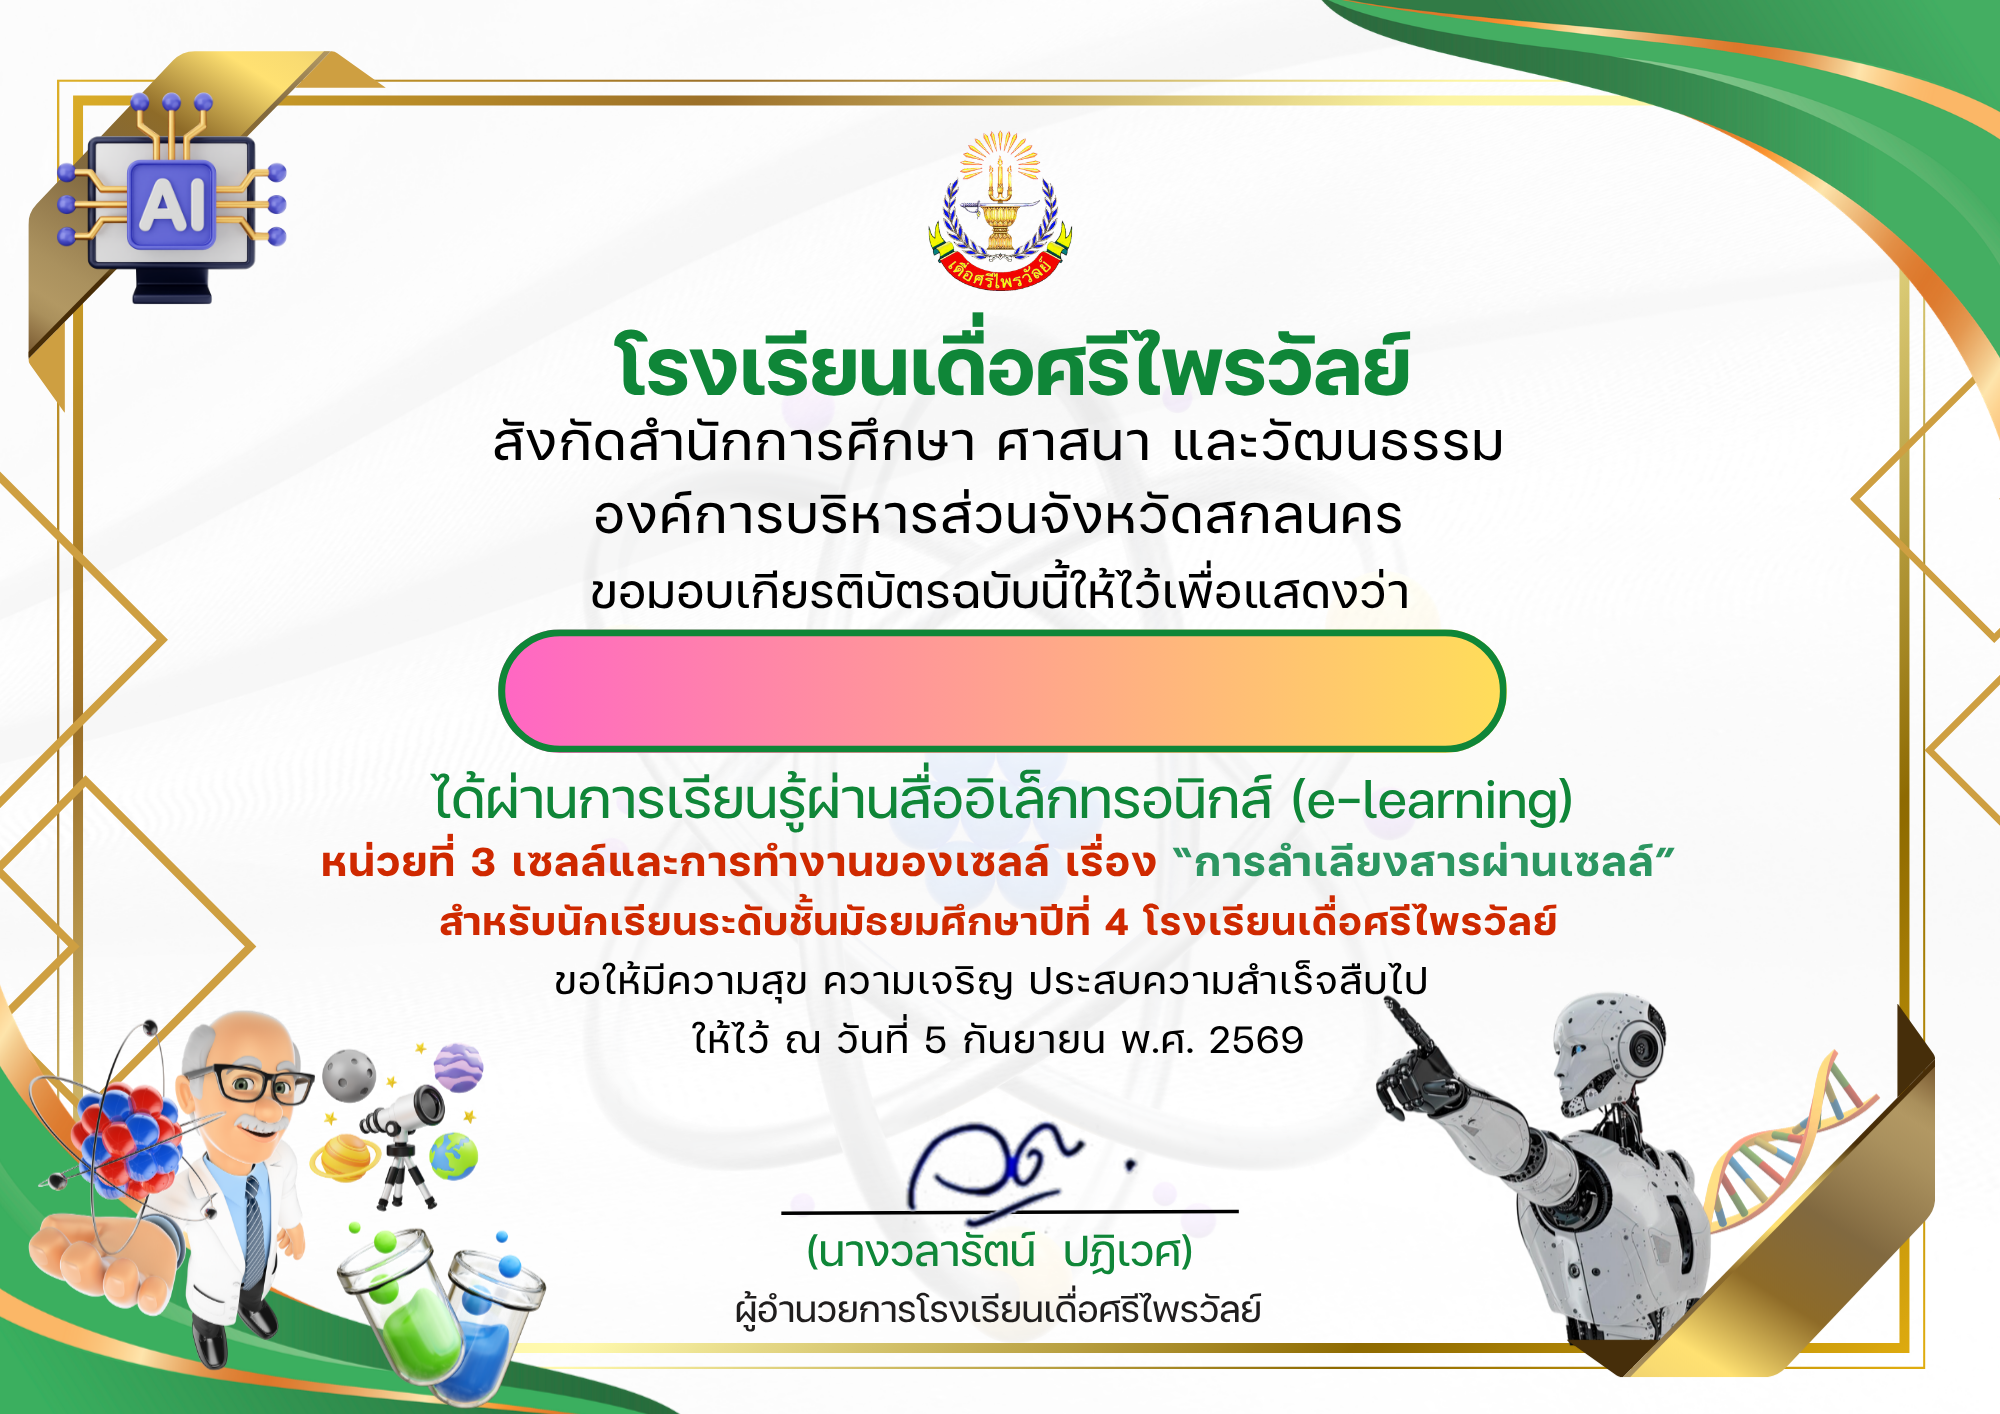
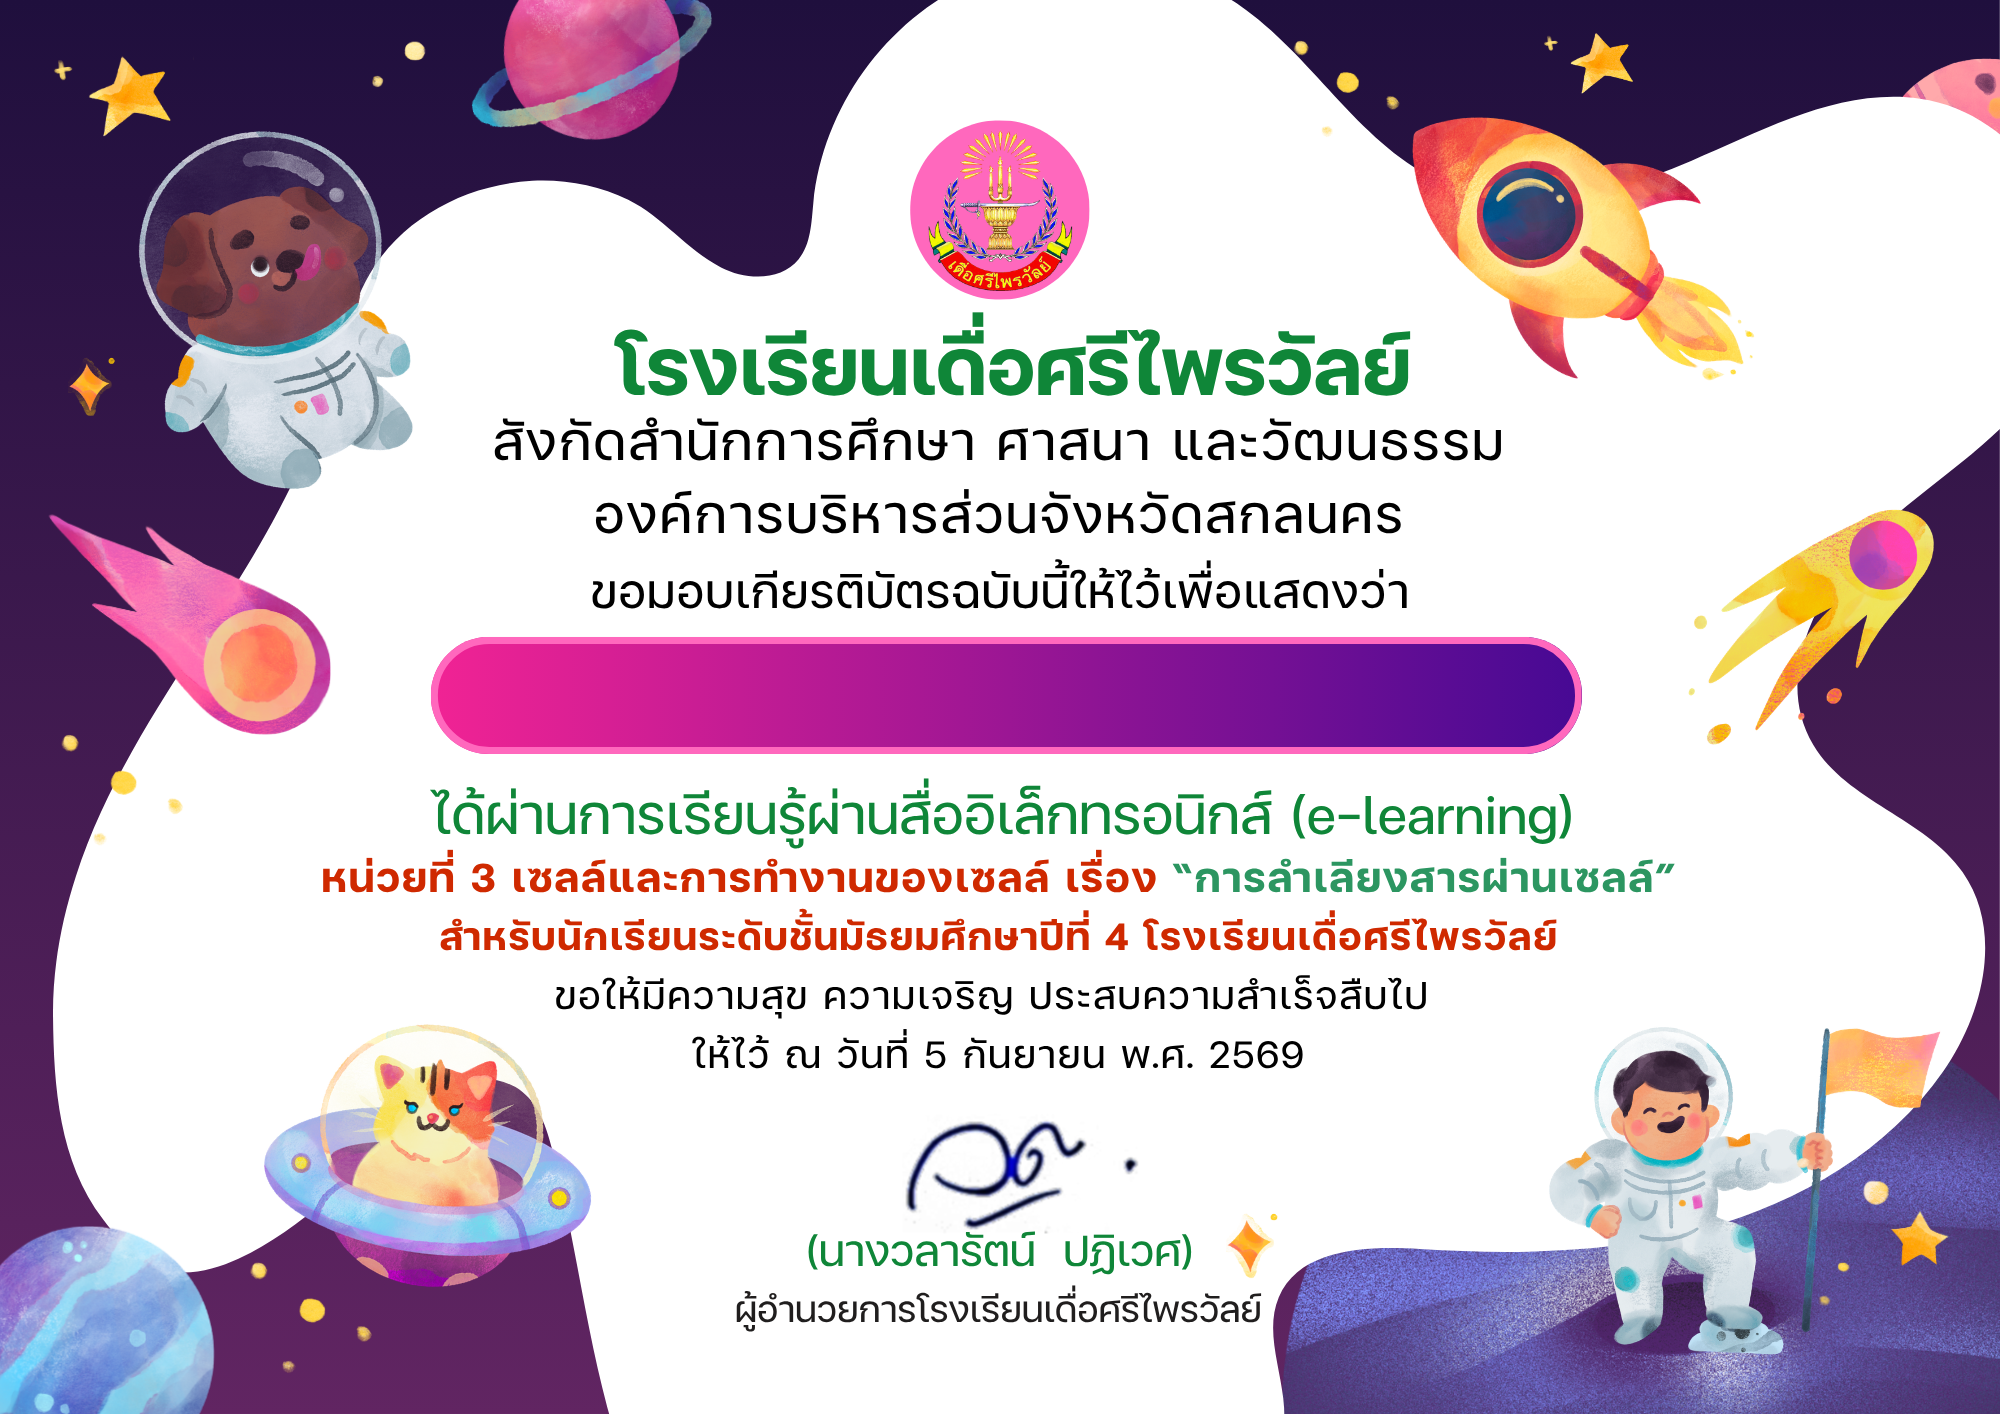
เกมการลำเลียงสารเข้าและออกจากเซลล์
เกมการลำเลียงสารเข้าและออกจากเซลล์

diff --git a/transport/index.html b/transport/index.html
@@ -742,34 +742,24 @@ const MEMB_PARTS = [
    MEMB_MASKS = แผ่นสีขาวปิดข้อความชื่อโครงสร้างที่พิมพ์มาบนภาพ ไม่ให้นักเรียนเห็นเฉลย
    ปรับตัวเลขทั้งสองชุดได้ที่นี่จุดเดียว */
 const MEMB_PHOTO = 'membrane.png';
-const MEMB_MASKS = [
-  { x:.100, y:.165, w:.165, h:.075 },   // ภายนอกเซลล์
-  { x:.245, y:.130, w:.310, h:.105 },   // โปรตีนที่แทรกหรืออยู่ที่ผิวทั้งสองด้านของฟอสโฟลิพิด
-  { x:.205, y:.285, w:.155, h:.075 },   // ไกลโคลิพิด
-  { x:.125, y:.445, w:.195, h:.075 },   // ฟอสโฟลิพิด
-  { x:.145, y:.605, w:.205, h:.075 },   // ภายในเซลล์
-  { x:.715, y:.285, w:.205, h:.075 },   // ไกลโคโปรตีน
-  { x:.690, y:.615, w:.230, h:.075 },   // คอเลสเตอรอล
-  { x:.580, y:.675, w:.210, h:.075 },   // ไซโทสเกเลตอน
-  { x:.290, y:.760, w:.440, h:.120 }    // ชื่อภาพด้านล่าง
-];
+const MEMB_MASKS = [];              // ภาพชุดใหม่ไม่มีข้อความเฉลยพิมพ์มา จึงไม่ต้องปิดทับ
 const MEMB_PHOTO_PARTS = [
-  { key:'out',  label:'ภายนอกเซลล์',        u:.500, v:.215,
-    info:'บริเวณเหนือเยื่อหุ้มเซลล์ — เป็นด้านที่มีสายน้ำตาลของไกลโคโปรตีนและไกลโคลิพิดยื่นออกมา' },
-  { key:'glip', label:'ไกลโคลิพิด',          u:.348, v:.300,
-    info:'Glycolipid — <b>ลิพิดที่มีสายน้ำตาลต่ออยู่</b> ยื่นออกด้านนอกเซลล์ ใช้เป็นเครื่องหมายและช่วยให้เซลล์จำกันได้' },
-  { key:'gpro', label:'ไกลโคโปรตีน',         u:.700, v:.300,
-    info:'Glycoprotein — <b>โปรตีนที่มีสายน้ำตาล</b>ยื่นออกนอกเซลล์ เป็นเครื่องหมายประจำเซลล์ เช่น หมู่เลือด' },
-  { key:'prot', label:'โปรตีนแทรกในเยื่อ',   u:.575, v:.520,
-    info:'Membrane protein — โปรตีนที่<b>แทรกทะลุเยื่อหรือเกาะอยู่ที่ผิว</b> ทำหน้าที่เป็นช่อง ตัวพา ตัวรับ และเอนไซม์' },
-  { key:'phos', label:'ฟอสโฟลิพิดสองชั้น',   u:.300, v:.470,
-    info:'Phospholipid bilayer — เรียงสองชั้น <b>หัวชอบน้ำหันออก · หางไม่ชอบน้ำหันเข้า</b> เป็นโครงหลักของเยื่อ' },
-  { key:'chol', label:'คอเลสเตอรอล',         u:.690, v:.530,
-    info:'Cholesterol — แทรกอยู่ระหว่างหางไขมัน <b>คุมความยืดหยุ่นของเยื่อ</b> ไม่ให้แข็งหรือเหลวเกินไป' },
-  { key:'cyto', label:'ไซโทสเกเลตอน',        u:.530, v:.640,
-    info:'Cytoskeleton — เส้นใยโปรตีนใต้เยื่อด้านในเซลล์ ค้ำรูปทรงและยึดโปรตีนของเยื่อให้อยู่กับที่' },
-  { key:'in',   label:'ภายในเซลล์',          u:.430, v:.700,
-    info:'บริเวณใต้เยื่อหุ้มเซลล์ คือ<b>ไซโทพลาซึม</b> — ด้านที่มีไซโทสเกเลตอนอยู่' }
+  { key:'out',  label:'ภายนอกเซลล์',        u:.060, v:.075,
+    info:'พื้นที่สีฟ้าเหนือเยื่อ — ด้านนอกเซลล์ เป็นด้านที่มี<b>สายน้ำตาล</b>ของไกลโคลิพิดและไกลโคโปรตีนยื่นออกมา' },
+  { key:'glip', label:'ไกลโคลิพิด',          u:.185, v:.205,
+    info:'Glycolipid — <b>สายน้ำตาลที่ต่ออยู่กับลิพิด</b> ของเยื่อ ยื่นออกด้านนอกเซลล์ ใช้เป็นเครื่องหมายให้เซลล์จำกันได้' },
+  { key:'gpro', label:'ไกลโคโปรตีน',         u:.720, v:.115,
+    info:'Glycoprotein — <b>สายน้ำตาลที่ต่ออยู่กับโปรตีน</b> ทำหน้าที่เป็นเครื่องหมายประจำเซลล์ เช่น หมู่เลือด และเป็นตัวรับสัญญาณ' },
+  { key:'prot', label:'โปรตีนแทรกในเยื่อ',   u:.620, v:.615,
+    info:'Membrane protein — โปรตีนที่<b>แทรกทะลุเยื่อ</b> ทำหน้าที่เป็นช่อง ตัวพา ตัวรับ และเอนไซม์ (บางชนิดเกาะอยู่แค่ที่ผิวเยื่อ)' },
+  { key:'phos', label:'ฟอสโฟลิพิดสองชั้น',   u:.320, v:.670,
+    info:'Phospholipid bilayer — <b>หัวสีเหลืองชอบน้ำหันออกทั้งสองด้าน · หางสีเขียวไม่ชอบน้ำหันเข้าหากัน</b> เป็นโครงหลักของเยื่อ' },
+  { key:'chol', label:'คอเลสเตอรอล',         u:.455, v:.620,
+    info:'Cholesterol — โมเลกุลสีม่วงเล็ก ๆ ที่แทรกอยู่ระหว่างหางไขมัน <b>คุมความยืดหยุ่นของเยื่อ</b> ไม่ให้แข็งหรือเหลวเกินไป' },
+  { key:'cyto', label:'ไซโทสเกเลตอน',        u:.420, v:.880,
+    info:'Cytoskeleton — เส้นใยโปรตีนสีเขียวใต้เยื่อด้านในเซลล์ ค้ำรูปทรงเซลล์และยึดโปรตีนของเยื่อให้อยู่กับที่' },
+  { key:'in',   label:'ภายในเซลล์',          u:.905, v:.915,
+    info:'พื้นที่สีส้มใต้เยื่อ — คือ<b>ไซโทพลาซึม</b> ด้านในเซลล์ ซึ่งเป็นที่อยู่ของไซโทสเกเลตอน' }
 ];
 
 function stageMemb(){

diff --git a/transport/sw.js b/transport/sw.js
@@ -3,7 +3,7 @@
    - คำขอไปยัง Supabase (ระบบชั้นเรียน) จะไม่ถูกแคช ให้วิ่งผ่านเครือข่ายตามปกติ
    หมายเหตุ: เวลาแก้ index.html แล้ว ให้เปลี่ยนเลข CACHE ด้านล่างหนึ่งครั้ง
              เพื่อให้เครื่องนักเรียนดึงเวอร์ชันใหม่ */
-const CACHE = 'transport-v3';
+const CACHE = 'transport-v4';
 const ASSETS = [
   './',
   './index.html',
